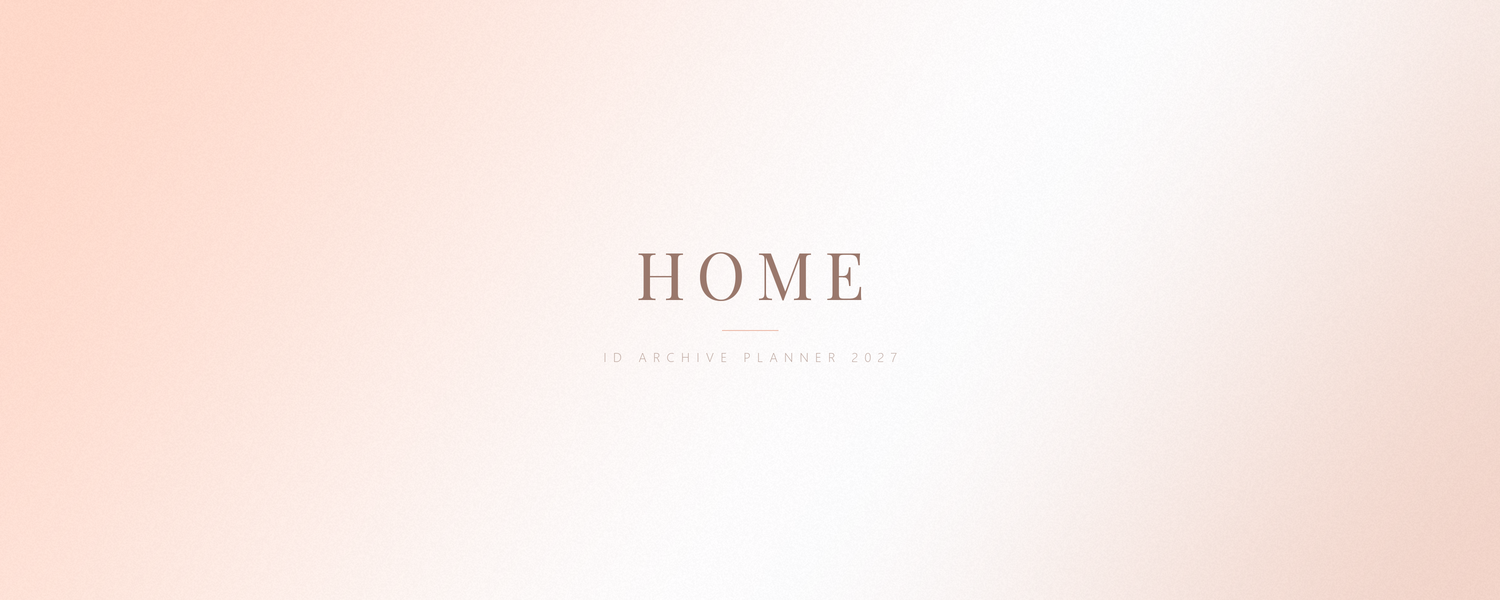
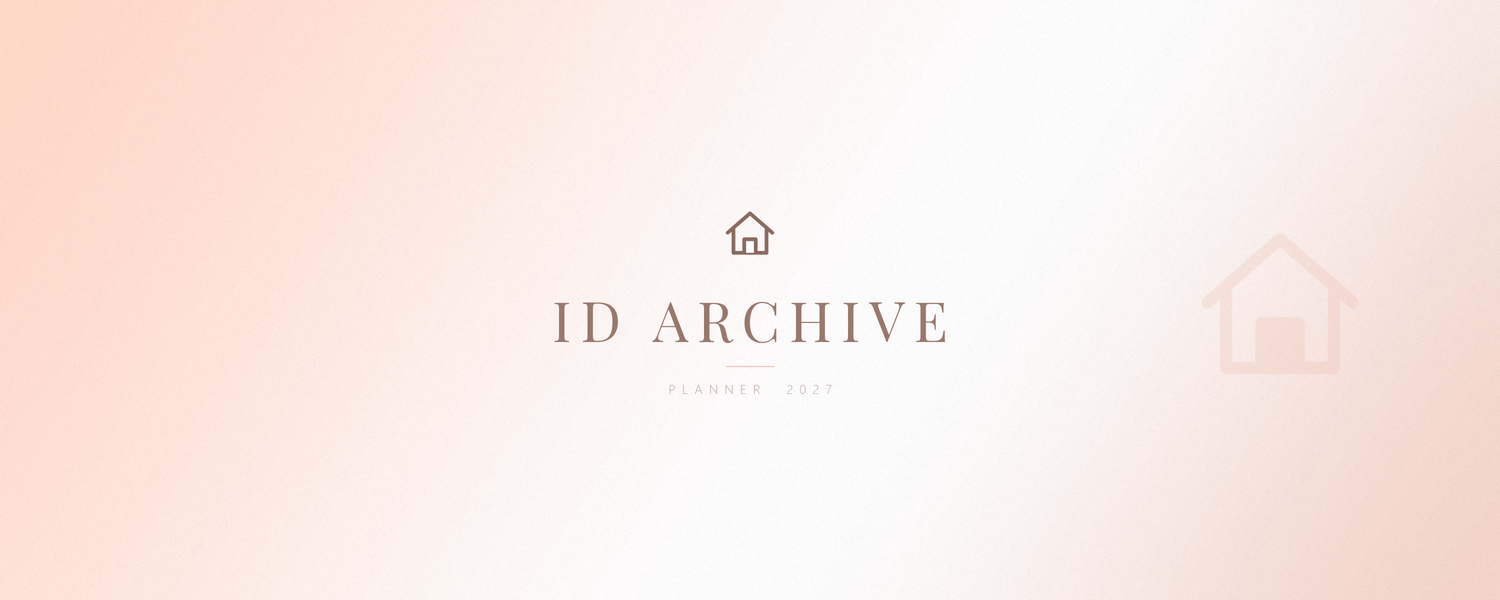
HOME brand cover (REQ-130)

Changed region(s): [[0.368, 0.36, 0.644, 0.57], [0.46, 0.63, 0.4907, 0.66]]

diff --git a/assets/month-art.js b/assets/month-art.js
@@ -59,7 +59,7 @@ function moduleSvg({ soft, deep, name, year = 2027, font, sans }) {
   soft = norm(soft); deep = norm(deep);
   const paint = (ink, s) => g.replace(/\{INK\}/g, ink).replace(/\{SOFT\}/g, s).replace(/\{TINT\}/g, mix(s, '#ffffff', 0.35)).replace(/\{WHITE\}/g, '#ffffff');
   return frame({ soft, deep, far: mix(mix(deep, '#ffffff', 0.3), '#ffffff', 0.3), font, sans, art: paint(mix(deep, '#2a2a2a', 0.5), soft),
-    ghost: solid(paint(deep, deep), deep), word, caption: 'ID ARCHIVE PLANNER ' + year });
+    ghost: solid(paint(deep, deep), deep), word, caption: ((G.moduleCaptions || {})[name] || 'ID ARCHIVE PLANNER 2027').replace('2027', String(year)) });
 }
 
 window.IDP_MONTH_ART = { MONTH_NAMES: MONTH_NAMES, monthColor: monthColor, glyph: glyph, monthSvg: monthSvg, mix: mix };
